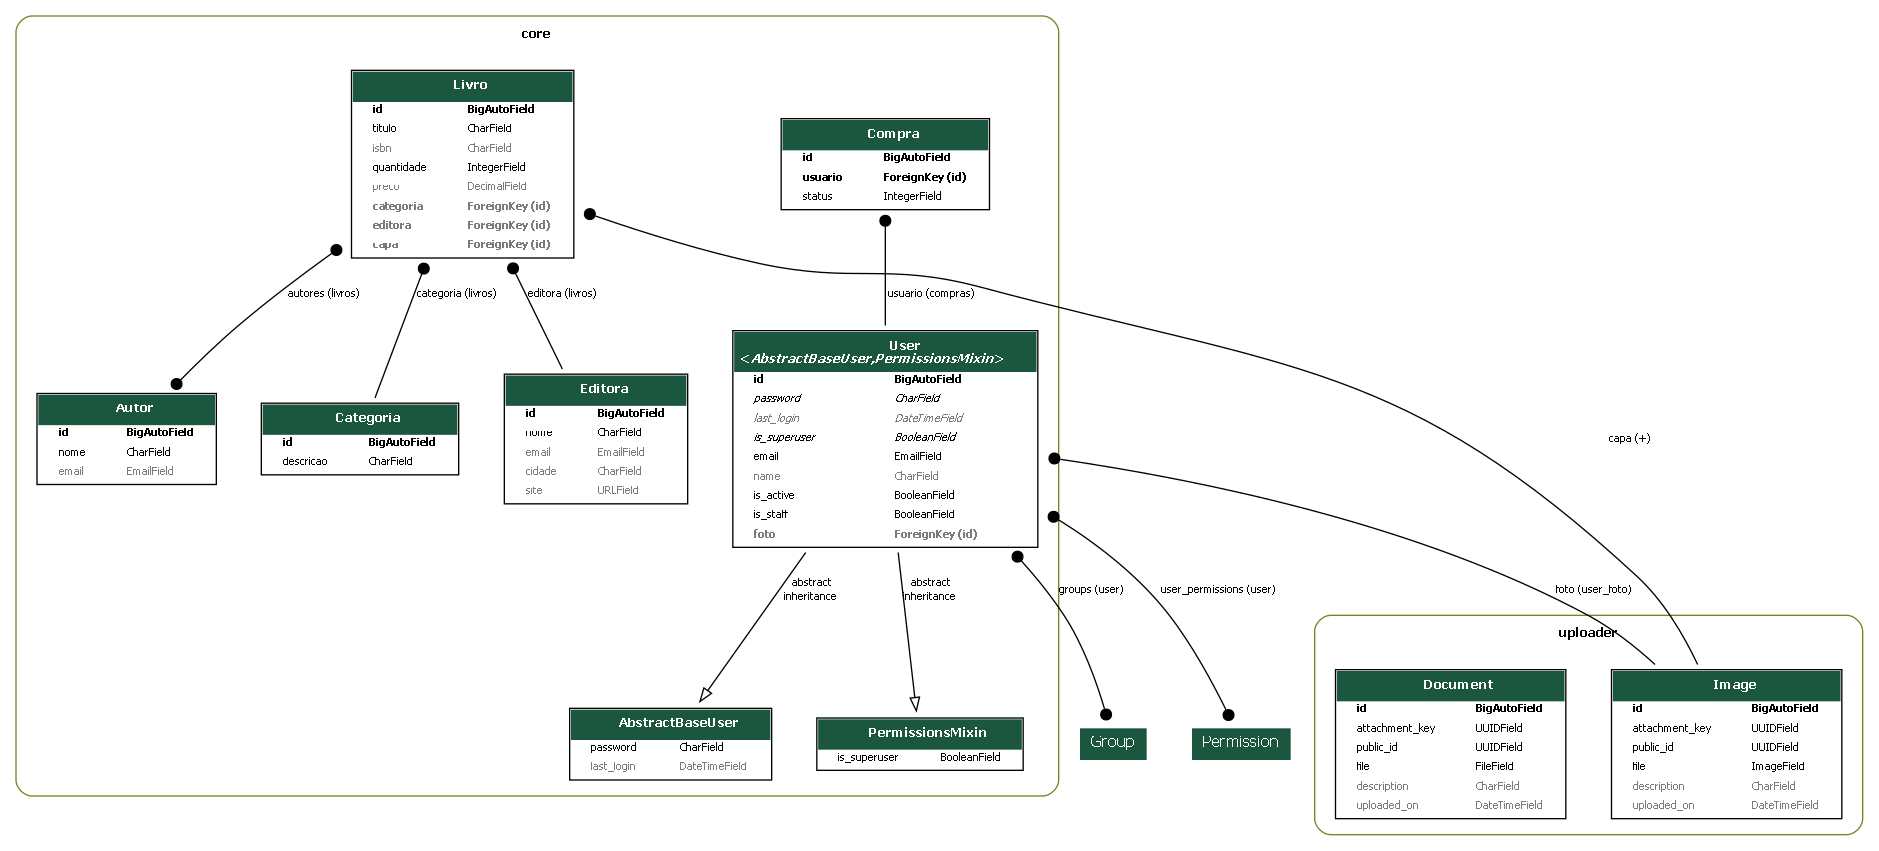
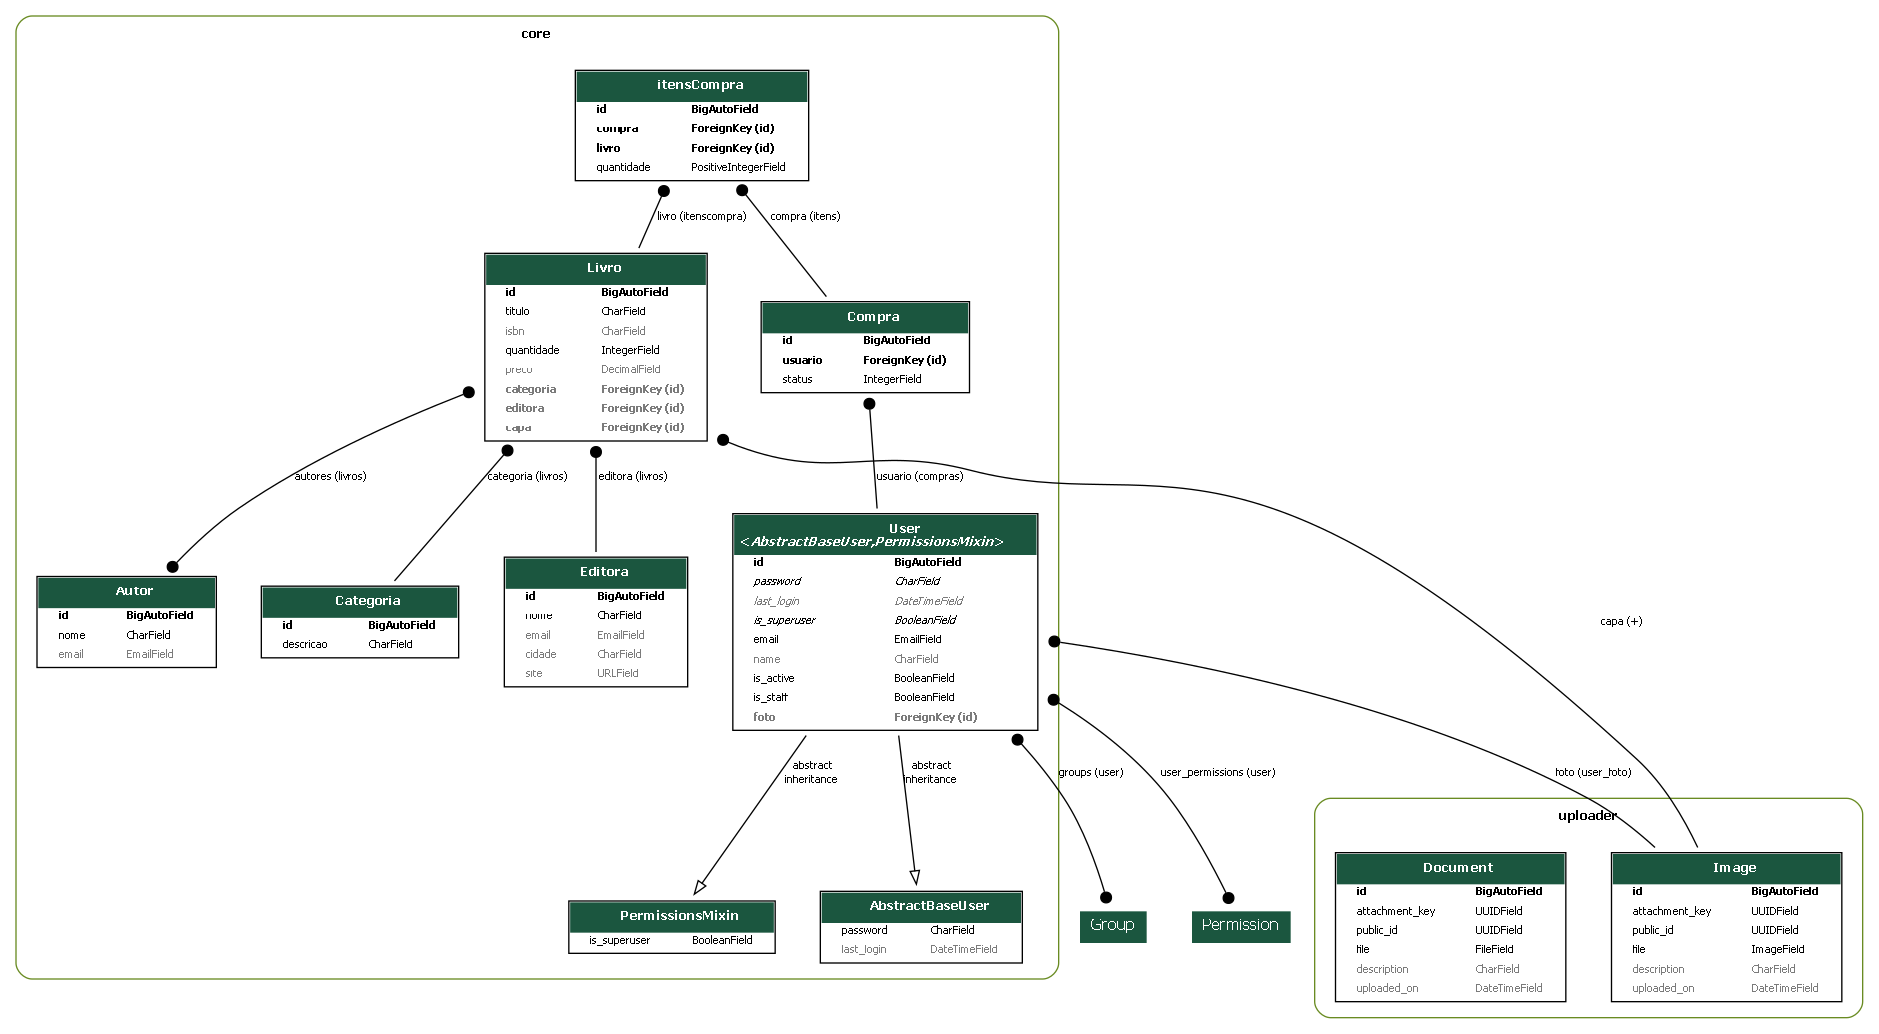
feat: criação dos itens da compra

diff --git a/core/migrations/0016_itenscompra.py b/core/migrations/0016_itenscompra.py
@@ -1,0 +1,23 @@
+# Generated by Django 5.2.13 on 2026-06-16 17:31
+
+import django.db.models.deletion
+from django.db import migrations, models
+
+
+class Migration(migrations.Migration):
+
+    dependencies = [
+        ('core', '0015_compra'),
+    ]
+
+    operations = [
+        migrations.CreateModel(
+            name='itensCompra',
+            fields=[
+                ('id', models.BigAutoField(auto_created=True, primary_key=True, serialize=False, verbose_name='ID')),
+                ('quantidade', models.PositiveIntegerField(default=1)),
+                ('compra', models.ForeignKey(on_delete=django.db.models.deletion.CASCADE, related_name='itens', to='core.compra')),
+                ('livro', models.ForeignKey(on_delete=django.db.models.deletion.PROTECT, to='core.livro')),
+            ],
+        ),
+    ]

diff --git a/core/admin.py b/core/admin.py
@@ -6,7 +6,7 @@ from django.contrib.admin import ModelAdmin, register
 from django.contrib.auth.admin import UserAdmin as BaseUserAdmin
 from django.utils.translation import gettext_lazy as _
 
-from core.models import Autor, Categoria, Compra, Editora, Livro, User
+from core.models import Autor, Categoria, Compra, Editora, Livro, User, itensCompra
 
 
 @register(Autor)
@@ -49,6 +49,13 @@ class LivroAdmin(ModelAdmin):
 class CompraAdmin(ModelAdmin):
     list_display = ('usuario', 'status')
     ordering = ('usuario', 'status')
+    list_per_page = 10
+
+
+@register(itensCompra)
+class ItensCompraAdmin(ModelAdmin):
+    list_display = ('compra', 'livro', 'quantidade')
+    ordering = ('compra', 'livro')
     list_per_page = 10
 
 

diff --git a/core/models/compra.py b/core/models/compra.py
@@ -1,5 +1,6 @@
 from django.db import models
 
+from .livro import Livro
 from .user import User
 
 
@@ -12,3 +13,9 @@ class Compra(models.Model):
 
     usuario = models.ForeignKey(User, on_delete=models.PROTECT, related_name='compras')
     status = models.IntegerField(choices=StatusCompra.choices, default=StatusCompra.CARRINHO)
+
+
+class itensCompra(models.Model):
+    compra = models.ForeignKey(Compra, on_delete=models.CASCADE, related_name='itens')
+    livro = models.ForeignKey(Livro, on_delete=models.PROTECT)
+    quantidade = models.PositiveIntegerField(default=1)

diff --git a/core/models/__init__.py b/core/models/__init__.py
@@ -3,4 +3,4 @@ from .categoria import Categoria
 from .editora import Editora
 from .livro import Livro
 from .user import User
-from .compra import Compra
+from .compra import Compra, itensCompra
